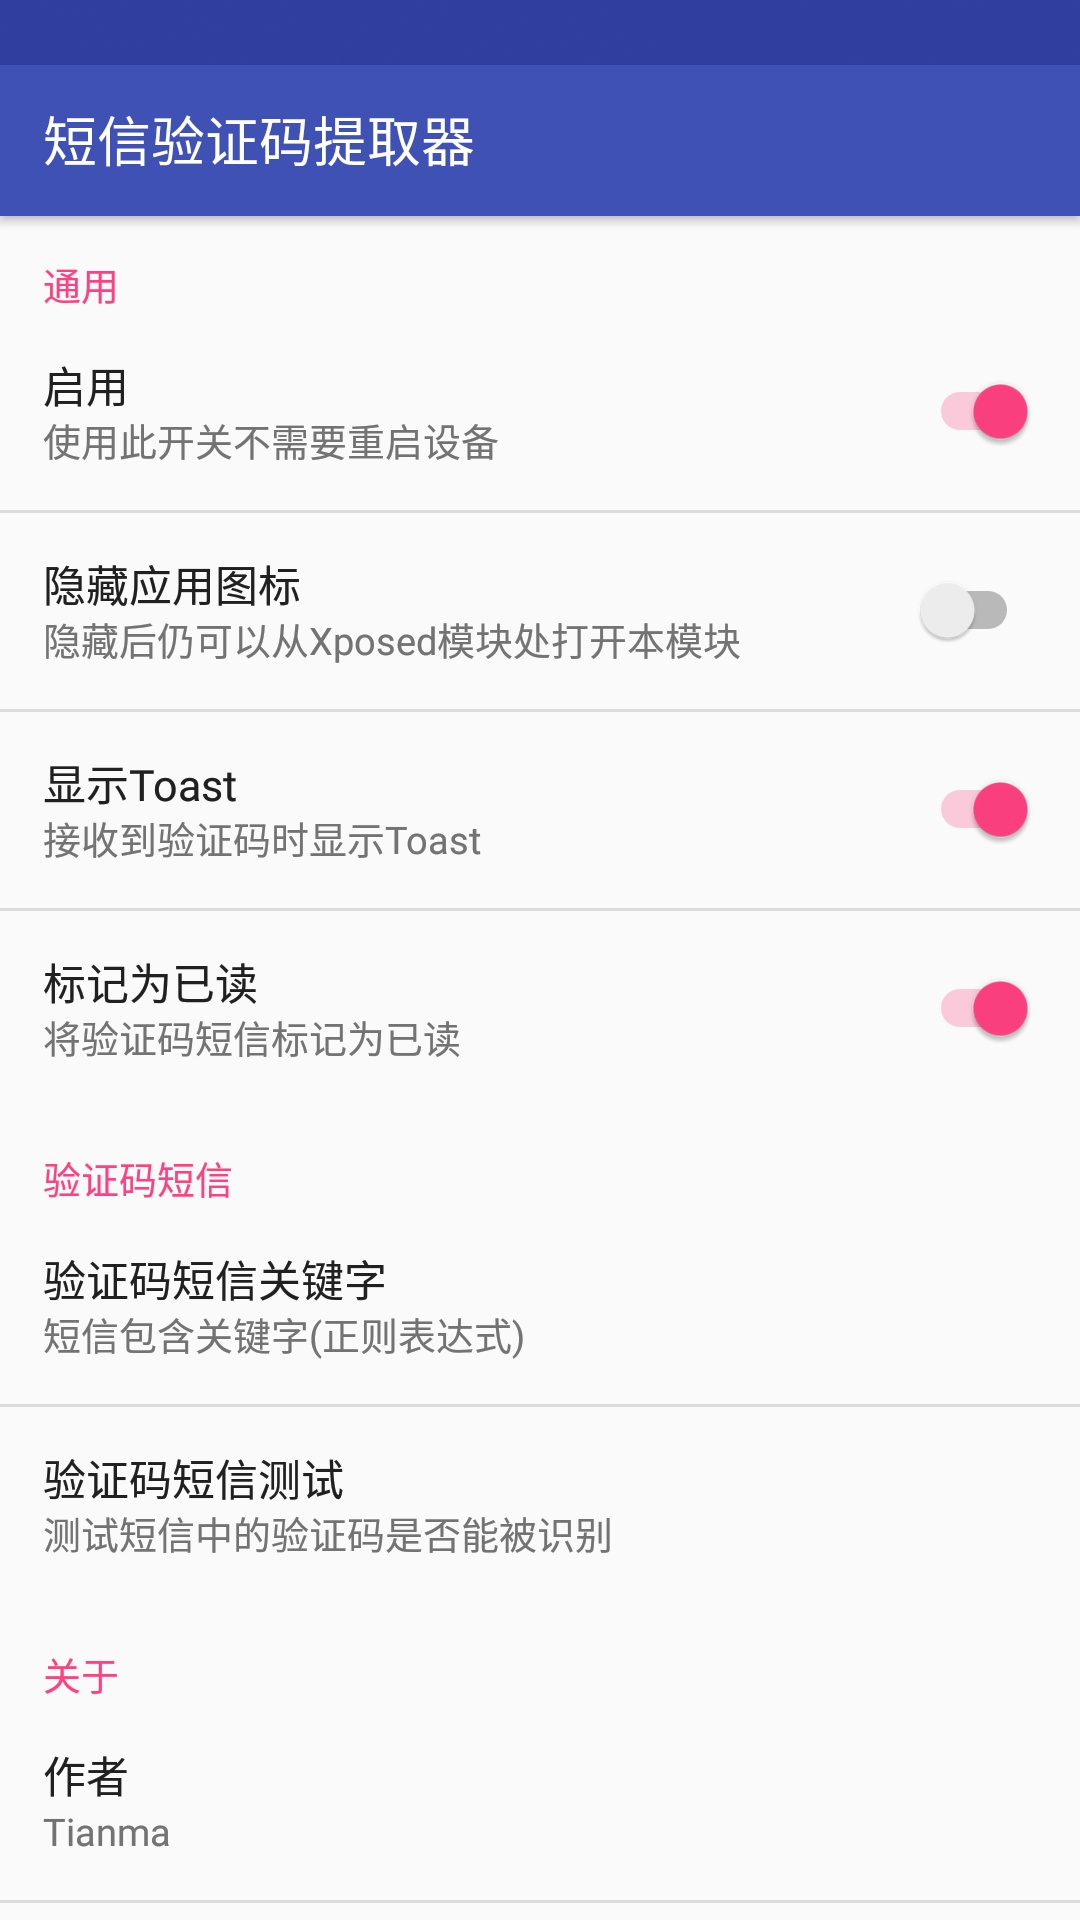
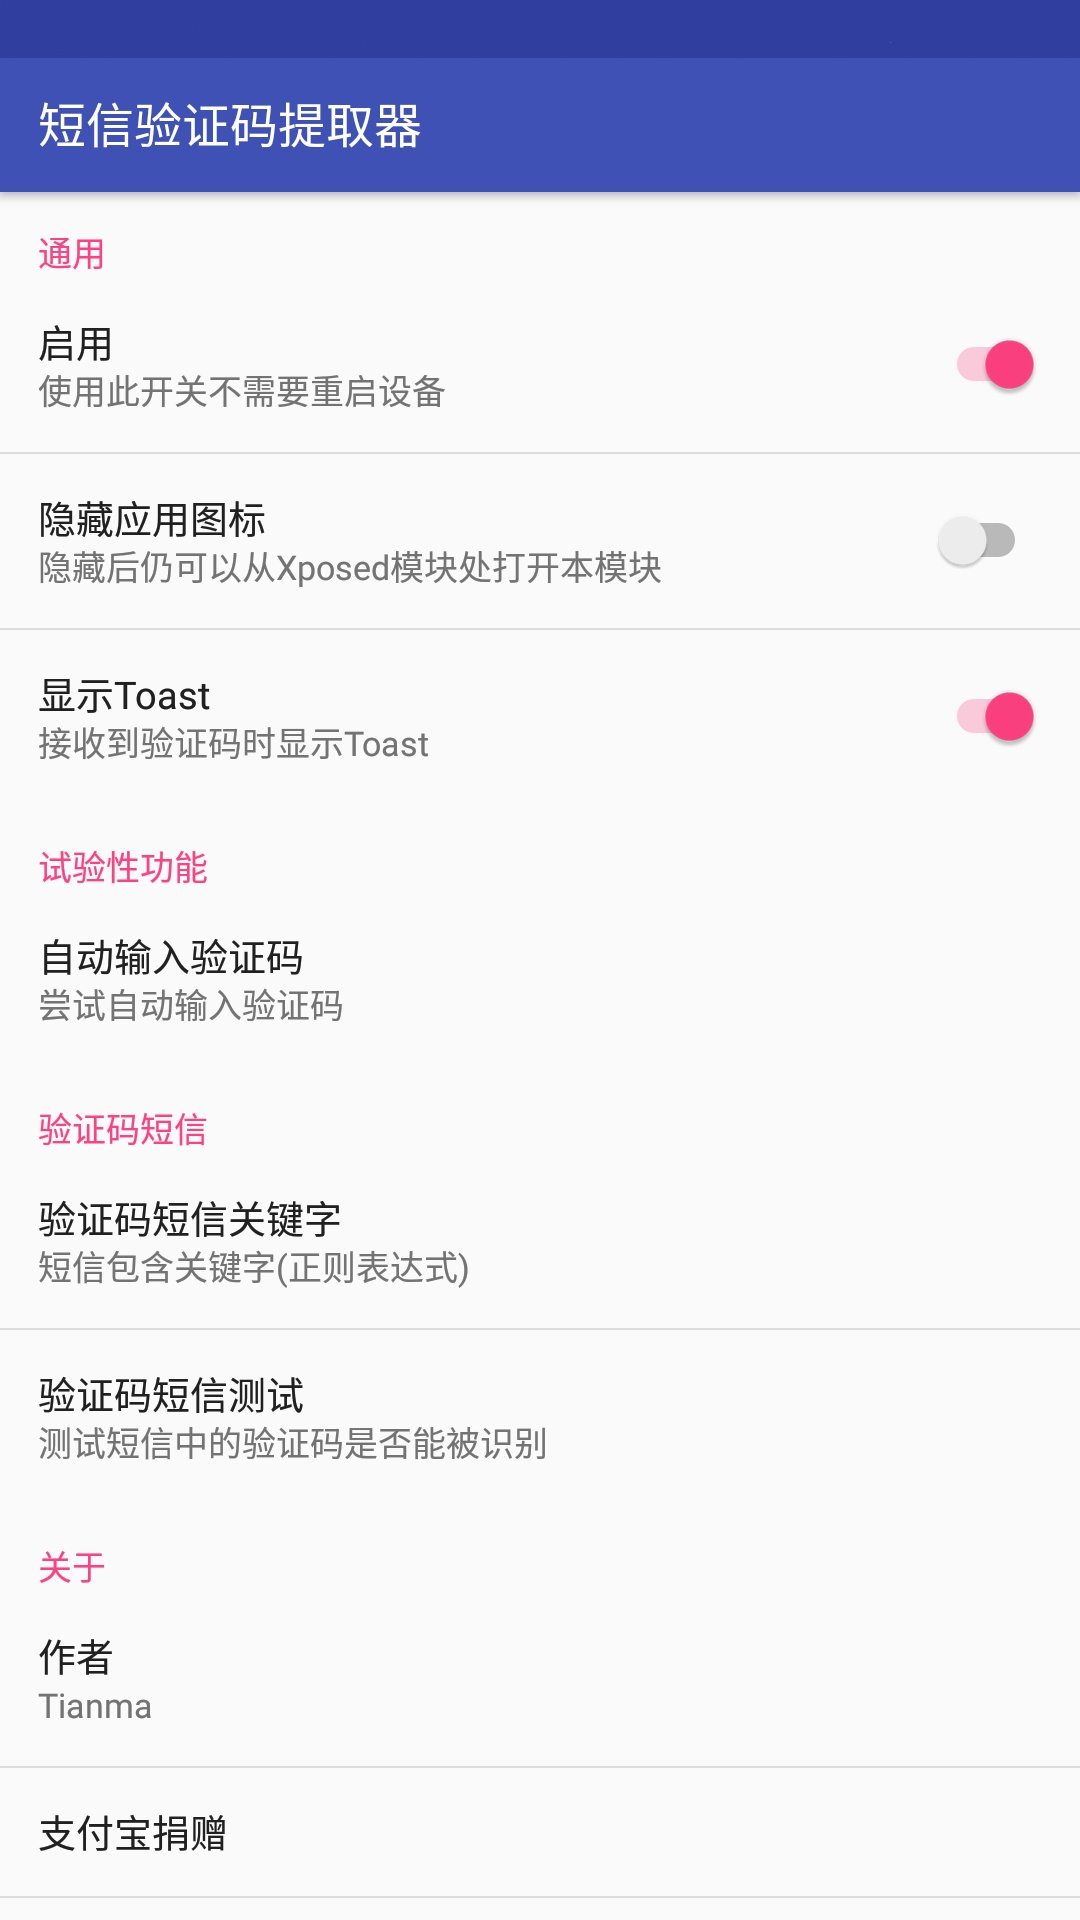
Update README and screenshots.

diff --git a/README.md b/README.md
@@ -1,9 +1,13 @@
 # XposedSmsCode
-A Xposed Module which can recognize ,parse verification code and copy it to clipboard when a new message arrives. / 识别短信验证码的Xposed模块，并将验证码拷贝到剪切板。
+A Xposed Module which can recognize ,parse SMS code and copy it to clipboard when a new message arrives.It can also auto-input SMS code. / 识别短信验证码的Xposed模块，并将验证码拷贝到剪切板，亦可以自动输入验证码。
 
-<img src="ss/ss_01.png" width="270" /> <img src="ss/ss_02.jpg" width="270" /> <img src="ss/ss_03.jpg" width="270" />
+<img src="ss/ss_01.png" width="180"/>
+<img src="ss/ss_02.jpg" width="180"/>
+<img src="ss/ss_03.jpg" width="180"/>
+<img src="ss/ss_04.jpg" width="180"/>
+<img src="ss/ss_05.jpg" width="180"/> 
 
-You can download this module on [Xposed Repository](http://repo.xposed.info/module/com.github.tianma8023.xposed.smscode) or [酷安](https://www.coolapk.com/apk/com.github.tianma8023.xposed.smscode). 
+You can download this module on [Xposed Repository](http://repo.xposed.info/module/com.github.tianma8023.xposed.smscode) or [Coolapk](https://www.coolapk.com/apk/com.github.tianma8023.xposed.smscode). 
 
 可以在 [Xposed仓库](http://repo.xposed.info/module/com.github.tianma8023.xposed.smscode) 或者 [酷安](https://www.coolapk.com/apk/com.github.tianma8023.xposed.smscode) 下载此模块。
 
@@ -14,16 +18,30 @@ You can download this module on [Xposed Repository](http://repo.xposed.info/modu
 
 Welcome any feedbacks. / 欢迎反馈，欢迎提出意见或建议。
 
-# Features / 功能
-- Copy verification code to clipboard when a new message arrives. / 收到验证码短信后将验证码复制到系统剪贴板
-- Show toast when a SMS verification code is copied. / 当验证码被复制后显示Toast
-- Mark verification code message as read (experimental). / 将验证码短信标记为已读（实验性）
-- Custom keywords about verification code message (regular expressions allowed). / 自定义验证码短信关键字（正则表达式）
-
 # Attention / 注意
 **This module is suitable for AOSP ROM, it may not work well on other 3rd-party Rom. / 此模块适用于偏原生的系统，其他第三方定制Rom可能不适用。**
 
 **Compatibility: Requires Android 4.4+ (api level ≥ 19). / 兼容性：兼容 Android 4.4及以上（api等级≥19）设备。**
+
+# Features / 功能
+- Copy verification code to clipboard when a new message arrives. / 收到验证码短信后将验证码复制到系统剪贴板
+- Show toast when a SMS verification code is copied. / 当验证码被复制后显示Toast
+- <s>Mark verification code message as read (experimental). / 将验证码短信标记为已读（实验性）</s>
+- Custom keywords about verification code message (regular expressions allowed). / 自定义验证码短信关键字（正则表达式）
+- Auto-input SMS code. / 自动输入验证码
+
+# Logs / 更新日志
+- 18.07.25 v1.2.0
+  1. Remove the feature of marking SMS as read. / 移除标记为已读功能
+  2. Add the feature of Auto-Input SMS code. / 增加短信验证码自动输入功能
+  3. Integrate UMeng analyze tools. / 集成友盟统计
+- 18.07.11 v1.1.1
+  1. Bug fix: Can't create handler inside thread that has not called Looper.prepare().
+  2. Bug fix: test-only package cannot be installed
+- 18.06.26 v1.0.1 
+  1. Custom SMS code keywords rules of regular expressions. / 自定义短信验证码关键字的正则表达式规则
+  2. SMS code test feature added. / 添加规则测试功能
+- 18.05.27 v0.0.1 Basic funtions added. / 添加基本功能
 
 # Thanks / 感谢
 - [NekoSMS](https://github.com/apsun/NekoSMS)
@@ -31,6 +49,7 @@ Welcome any feedbacks. / 欢迎反馈，欢迎提出意见或建议。
 - [ButterKnife](https://github.com/JakeWharton/butterknife)
 - [Remote Preferences](https://github.com/apsun/RemotePreferences)
 - [Material Dialogs](https://github.com/afollestad/material-dialogs)
+- [Android Shell](https://github.com/jaredrummler/AndroidShell)
 
 # License / 协议
 All code is licensed under [GPLv3](https://www.gnu.org/licenses/gpl-3.0.txt) 
